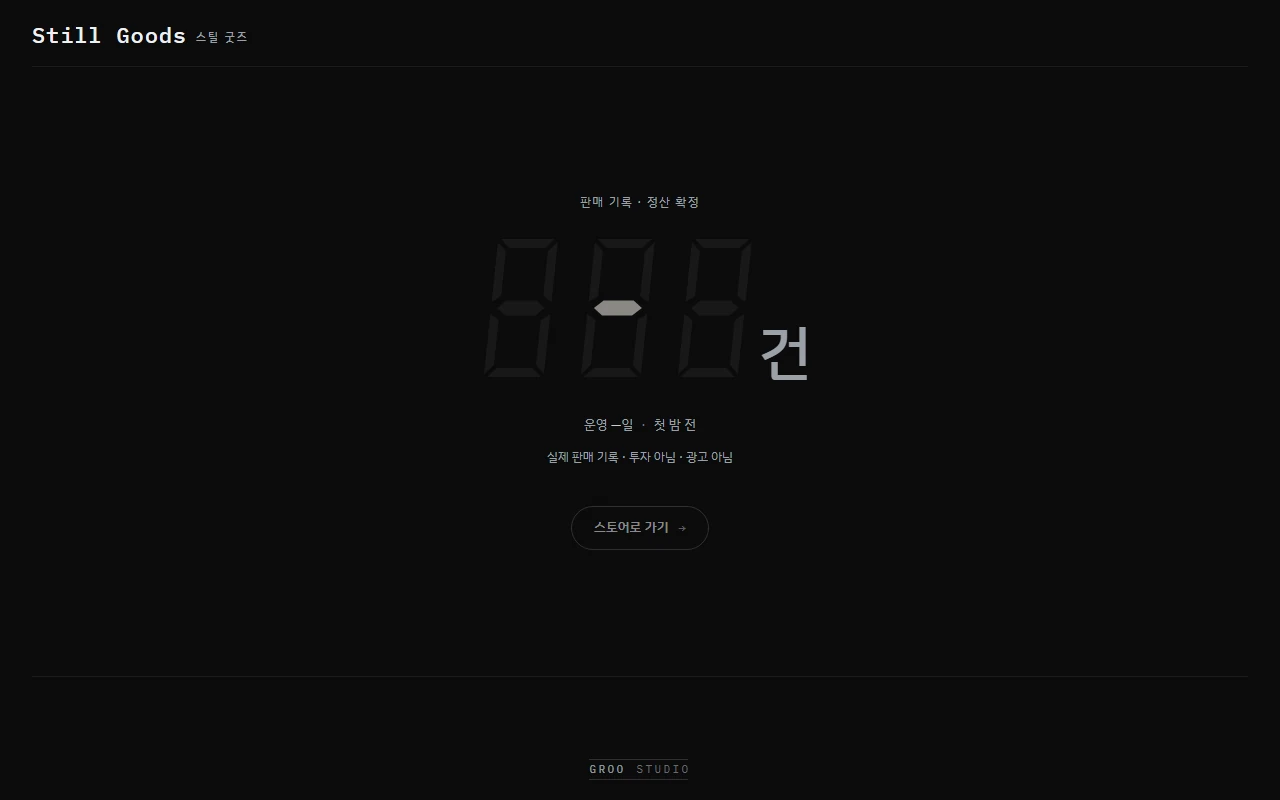
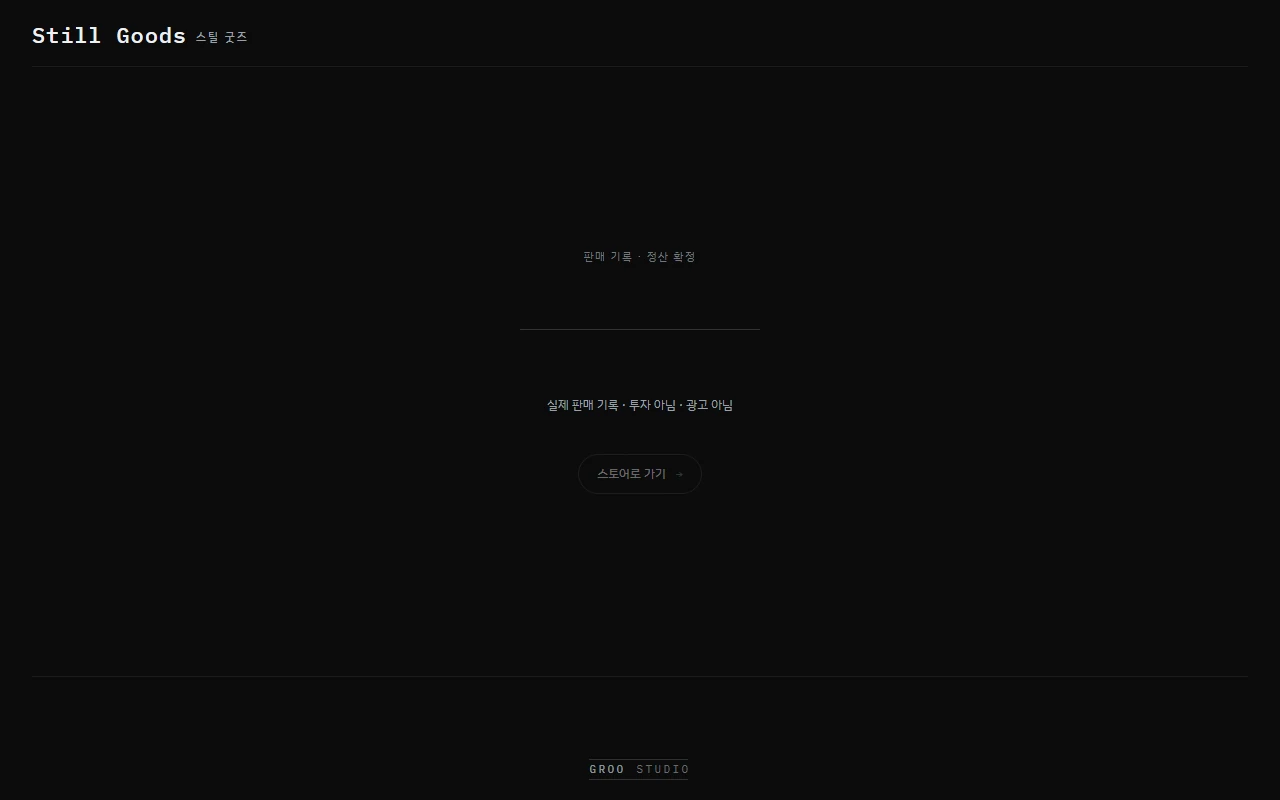
카드 그림을 숫자 모양 없는 판으로, 아이콘 모서리 수정

diff --git a/assets/style.css b/assets/style.css
@@ -59,8 +59,16 @@ footer{display:flex;flex-direction:column;align-items:center;gap:22px;padding-to
 .lock .s{font-weight:400;color:var(--steel);margin-left:1em}
 /* 예시 화면(?demo=1 · 로컬에서만) 표시 */
 body.demo .label{color:var(--muted)}
-/* shot 찍는 순간(?shot=1 · 로컬에서만) — 번호 002 · 출처 · 라이선스 줄을 감춘다. 자리는 그대로 */
+/* shot 찍는 순간(?shot=1 · 로컬에서만) — 카드 화면 그림에는 숫자 꼴이 하나도 없어야 한다(규약 · 기획 검사 2026-10-25:
+   꺼진 LED 틀의 유령 토막도 카드 크기에서 '888 건' 으로 읽혔다). 그래서 LED 블록(토막 · 단위 '건') · 작은 줄 · 번호 002 · 출처 · 라이선스 줄을 감추고,
+   LED 자리에 얇은 가로 선 하나(숫자 모양 아님)를 둔다. 남는 글 넷(머리 이름 · 라벨 · 면책 · 버튼 · 각인) 중 라벨과 버튼 글자는 더 작고 흐리게 */
 body.shot .no,body.shot .foot-lines{visibility:hidden}
+body.shot .figure,body.shot .small{display:none}
+.rule{display:none;width:240px;height:1px;background:rgba(200,204,209,.22);margin:64px 0 52px}
+body.shot .rule{display:block}
+body.shot .label{font-size:11px;color:var(--steel);letter-spacing:.14em;margin-bottom:0}
+body.shot .go{height:40px;padding:0 18px;font-size:12px;font-weight:400;opacity:.4;border-color:rgba(200,204,209,.25)}
+body.shot .go .arrow{color:var(--steel)}
 @media (max-width:640px){
   :root{--gutter:20px;--h:clamp(84px, 24vw, 110px)}
   header{padding-bottom:14px}
@@ -70,6 +78,7 @@ body.shot .no,body.shot .foot-lines{visibility:hidden}
   .glow{width:260px;height:130px}
   .small{margin-top:22px;font-size:12px}
   .small .sep{margin:0 6px}
+  .rule{width:180px;margin:48px 0 40px}
   .go{margin-top:32px}
   footer{gap:18px}
 }

diff --git a/assets/app.js b/assets/app.js
@@ -109,7 +109,8 @@
 
   function isLocal() { return /^(localhost|127\.0\.0\.1|\[::1\])$/.test(location.hostname); }
 
-  /* ?shot=1(로컬에서만) — 카드 화면 그림(shot)을 찍는 순간: 머리 줄 번호 002 와 바닥 출처 · 라이선스 줄을 감춘다(숫자 글자 0). 자리는 그대로(visibility) */
+  /* ?shot=1(로컬에서만) — 카드 화면 그림(shot)을 찍는 순간: body.shot 으로 LED 블록(토막 · 단위) · 작은 줄 · 번호 002 · 출처 · 라이선스 줄을 감추고
+     LED 자리에 얇은 선 하나를 둔다(숫자 꼴 0 — 꺼진 LED 유령 토막도 카드 크기에서 숫자로 읽힌다). 감추는 규칙은 style.css 의 body.shot 묶음 */
   function shotMode() {
     var q = new URLSearchParams(location.search);
     if (q.get('shot') === '1' && isLocal()) document.body.classList.add('shot');

diff --git a/index.html b/index.html
@@ -22,6 +22,7 @@
 
 <main>
   <p class="label" id="label">판매 기록 · 정산 확정</p>
+  <span class="rule" aria-hidden="true"></span>
   <div class="figure" role="img" id="figure" aria-label="판매 건수 —">
     <span class="glow" aria-hidden="true"></span>
     <span id="ledBox"></span><span class="unit" aria-hidden="true">건</span>

diff --git a/README.md b/README.md
@@ -28,7 +28,7 @@
 python -m http.server 8801 --bind 127.0.0.1 --directory site
 ```
 
-- 빈 상태: http://127.0.0.1:8801/ · 예시 숫자: http://127.0.0.1:8801/?demo=1 · shot 찍는 화면: http://127.0.0.1:8801/?shot=1 (번호 002 · 출처 · 라이선스 줄을 감춰 숫자 글자 0 — 자리는 그대로). 두 꼬리 모두 로컬에서만 먹는다.
+- 빈 상태: http://127.0.0.1:8801/ · 예시 숫자: http://127.0.0.1:8801/?demo=1 · shot 찍는 화면: http://127.0.0.1:8801/?shot=1 (LED 블록 · 작은 줄 · 번호 002 · 출처 · 라이선스 줄을 감추고 LED 자리에 얇은 선 하나 — 숫자 꼴 0. 꺼진 LED 틀도 카드 크기에서 '888'로 읽혀 같이 감춘다). 두 꼬리 모두 로컬에서만 먹는다.
 - 포트 **8850~8870 은 쓰지 않는다**(통합 사이트 미리보기 자리). 8801 이 막혀 있으면 8802 처럼 그 밖의 번호로.
 - `file://` 로 열면 JSON 을 못 읽어 '숫자를 불러오지 못함'이 뜬다 — 서버로 연다.
 
@@ -91,7 +91,7 @@ python -m http.server 8801 --bind 127.0.0.1 --directory site
 - [ ] **3 낱말** — 글 칸 전부 + 기록 페이지 보이는 글에 구매 · 할인 · 가격 · 특가 · 쿠폰 · 최저가 · 무료배송 · 주문하 · 금액 꼴 · 느낌표 · 말 걸기 · 권유 · 과장 · 수익 보장 0. **눈으로**: 상품 이름이 글에 없는지
 - [ ] **4 면책 · 돈** — `money: true` · `money_kind: "sales"` · `notice` 가 `실제 판매 기록 · 투자 아님 · 광고 아님` 을 글자 그대로 품음
 - [ ] **5 주소** — 주소 칸 전부 `https://26rapper.github.io/…` · 가리키는 파일이 다 있음. **올린 뒤**: 실제로 200 으로 열리는지(넘겨주기 0)
-- [ ] **6 그림** — 아이콘 WebP 1024×1024 · 300KB 이하 · 글자 0 / shot WebP 1280×800 · 300KB 이하 · `?shot=1` 로 찍어 숫자 글자 0. **눈으로**: shot 에 숫자 · 상품 사진 · 가격 없음
+- [ ] **6 그림** — 아이콘 WebP 1024×1024 · 300KB 이하 · 글자 0 / shot WebP 1280×800 · 300KB 이하 · `?shot=1` 로 찍어 숫자 꼴 0(LED 틀 · 작은 줄 · 번호 · 출처 줄 없음). **눈으로**: shot 을 카드 크기(작게)로도 보며 숫자로 읽히는 모양 · 상품 사진 · 가격 없음
 - [ ] **7 숫자 칸** — `summary.json` 에 `orders_total` · `day` · `as_of` · `listings_live` 가 있고 0 이상 정수 · 7자리 이하 · 날짜 꼴
 - [ ] **8 번호** — `no: "002"` 가 groo-site `projects.json` 의 다른 줄과 겹치지 않음(**여기서는 못 봄** — 기획이 본다)
 - [ ] **페이지** — 링크 하나 · `textContent` 만 · 바깥 요청은 Google Fonts 둘뿐 · 열쇠 꼴 0 · 콘솔 오류 0(내장 브라우저로 빈 상태 · `?demo=1` 둘 다)

diff --git a/LICENSES.md b/LICENSES.md
@@ -27,7 +27,7 @@
 | 것 | 출처 | 비고 |
 |---|---|---|
 | `assets/groo/icon-1024.webp` | `design/icon-1024.svg`(디자인 세션이 직접 그림)를 이 PC 의 Google Chrome 헤드리스로 1024×1024 로 찍어 Pillow 로 WebP 로 바꿈(`tools/make_assets.py`) | 바깥 그림 · 글꼴 0. 바탕 `#121418` = `groo.json` 의 `accent` |
-| `assets/groo/shot.webp` | 이 페이지의 첫 밤 전(—) 화면을 `?shot=1` 로 1280×800 으로 찍은 것 | 숫자 글자 0(`?shot=1` 이 번호 002 · 출처 · 라이선스 줄을 감춤) · 상품 사진 · 가격 0 |
+| `assets/groo/shot.webp` | 이 페이지의 첫 화면을 `?shot=1` 로 1280×800 으로 찍은 것 | 숫자 꼴 0(`?shot=1` 이 LED 블록 · 작은 줄 · 번호 002 · 출처 · 라이선스 줄을 감추고 LED 자리에 얇은 선 하나) · 상품 사진 · 가격 0 |
 | LED 일곱 토막 숫자(`assets/app.js` 의 `SEG` · `SEGP`) | GROO STUDIO 001 문로그 `site/index.html` 의 것을 그대로 옮김 | 스튜디오 안 자산. 글꼴이 아니라 SVG 경로 |
 | `캡처/*.png` | 같은 방법으로 찍은 확인용 그림 | 공개 저장소에는 올리지 않아도 된다 |
 
